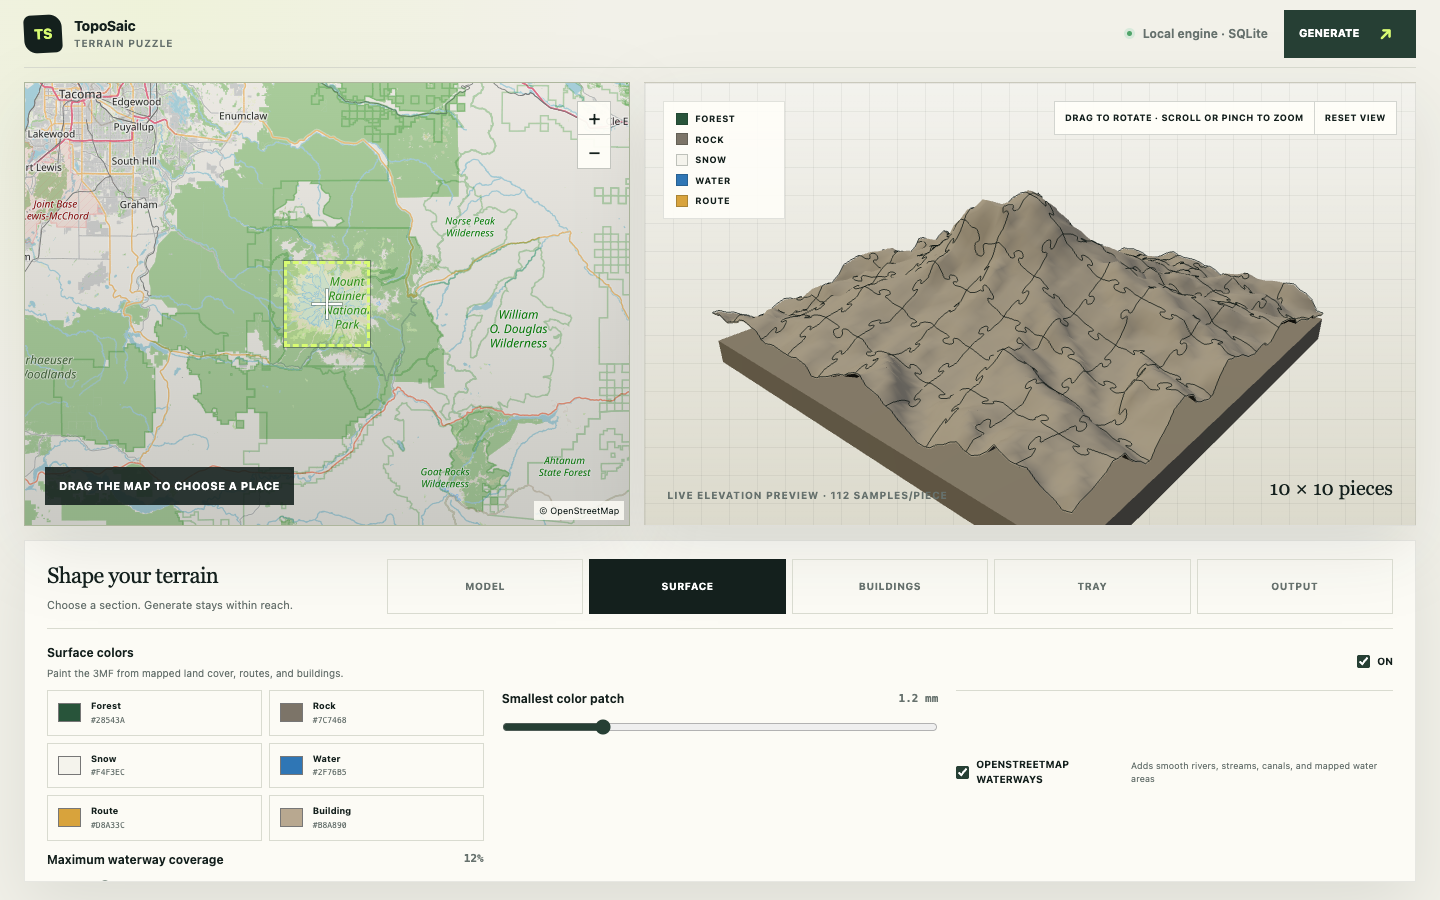
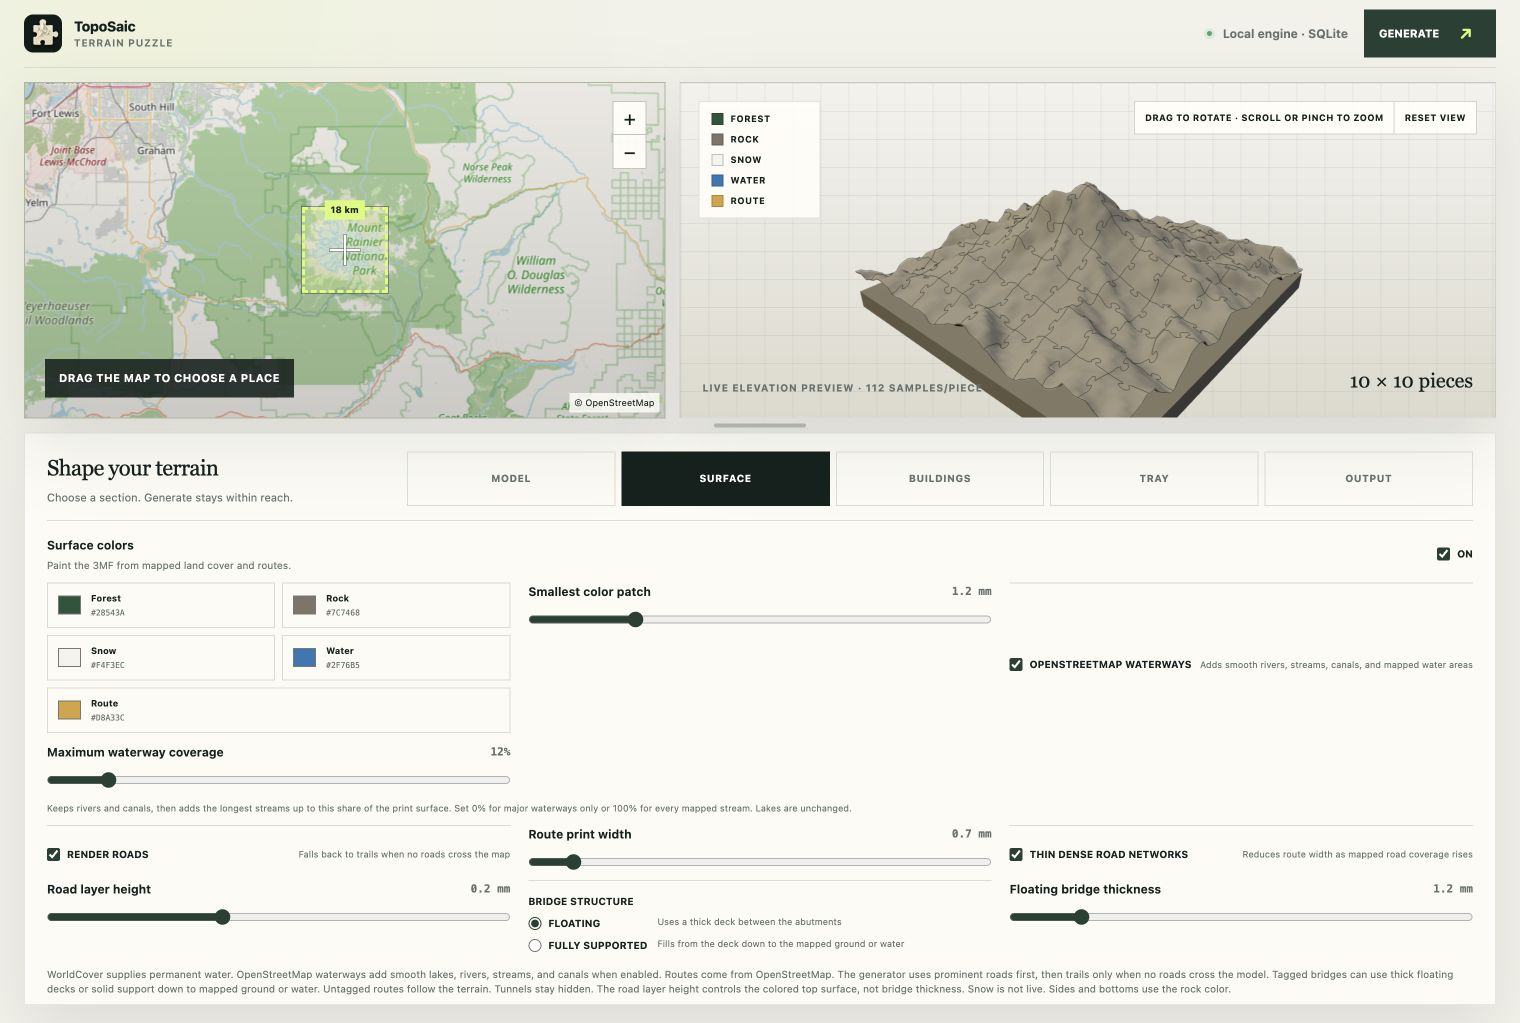
Harden fork CI and refresh app screenshots

diff --git a/app/terrain-studio.tsx b/app/terrain-studio.tsx
@@ -1028,6 +1028,8 @@ function ReliefPreview({
     controlsRef.current = controls;
     canvas.dataset.cameraMoved = savedView ? "true" : "false";
     resetViewRef.current = false;
+    const initialPosition = camera.position.clone();
+    const initialTarget = controls.target.clone();
 
     renderer.setPixelRatio(Math.min(window.devicePixelRatio || 1, 2));
     renderer.outputColorSpace = THREE.SRGBColorSpace;
@@ -1044,11 +1046,17 @@ function ReliefPreview({
       render();
     };
     const onViewChange = () => {
-      canvas.dataset.cameraMoved = "true";
-      viewRef.current = {
-        position: camera.position.toArray(),
-        target: controls.target.toArray(),
-      };
+      const positionDelta =
+        camera.position.distanceToSquared(initialPosition);
+      const targetDelta = controls.target.distanceToSquared(initialTarget);
+      const cameraMoved = positionDelta > 1e-12 || targetDelta > 1e-12;
+      if (cameraMoved) {
+        canvas.dataset.cameraMoved = "true";
+        viewRef.current = {
+          position: camera.position.toArray(),
+          target: controls.target.toArray(),
+        };
+      }
       render();
     };
     controls.addEventListener("change", onViewChange);
@@ -1057,7 +1065,7 @@ function ReliefPreview({
     resize();
 
     return () => {
-      if (!resetViewRef.current) {
+      if (!resetViewRef.current && canvas.dataset.cameraMoved === "true") {
         viewRef.current = {
           position: camera.position.toArray(),
           target: controls.target.toArray(),
@@ -1132,6 +1140,7 @@ function ReliefPreview({
           type="button"
           onClick={() => {
             resetViewRef.current = true;
+            viewRef.current = null;
             setResetViewKey((current) => current + 1);
           }}
         >

diff --git a/README.md b/README.md
@@ -24,13 +24,13 @@ with `chmod +x` before opening it.
 
 ## Screenshots
 
-![TopoSaic workspace showing the Mount Rainier map and interactive 3D terrain puzzle preview](docs/images/toposaic-studio.png)
+![TopoSaic light workspace showing the Mount Rainier map, interactive 3D terrain puzzle preview, and model controls](docs/images/toposaic-studio.png)
 
-*Choose a place beside a live, rotatable elevation preview.*
+*Choose a place beside a live, rotatable preview, then shape the model below.*
 
-![TopoSaic surface controls for terrain colors and mapped waterways](docs/images/toposaic-surface-controls.png)
+![TopoSaic light workspace showing terrain colors, mapped water and road controls, and bridge structure choices](docs/images/toposaic-surface-controls.png)
 
-*Tune print colors and mapped surface layers without leaving the 3D workspace.*
+*Tune print colors, mapped layers, road detail, and bridge structure in place.*
 
 An optional shallow tray exports as its own watertight STL and color 3MF. Its
 flat well shows smooth, continuous equal-height contour lines as fine color